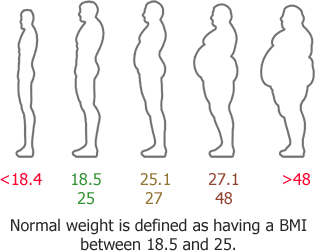
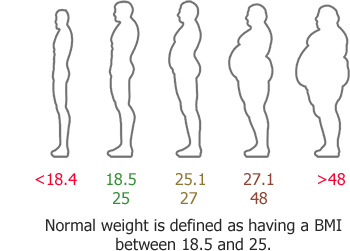
Change image size
http://chiquit.in/Mocoso/BMI/

diff --git a/index.html b/index.html
@@ -64,7 +64,7 @@
 	>
   </p><p style="font-size:10px">Type your desired BMI and hit enter to calculate the corresponding weight.  </p>
   <br>
-  <p align="center"><img src="img/imgdown.png" width="315" height="251"></p>
+  <p align="center"><img src="img/imgdown.png"></p>
 
 
 
